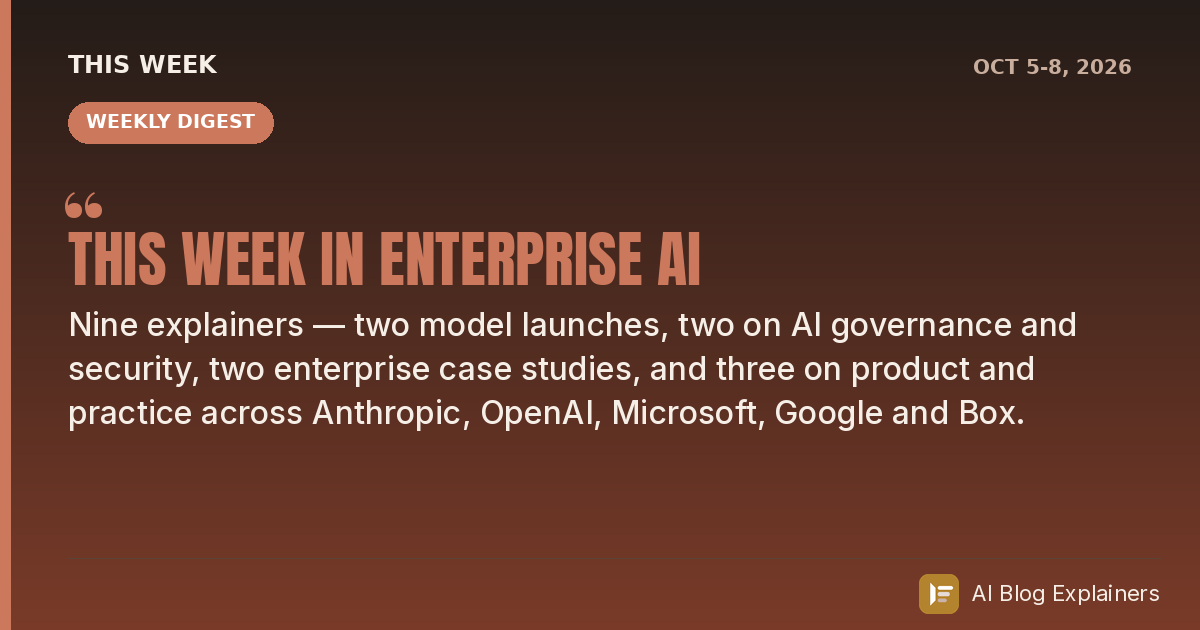
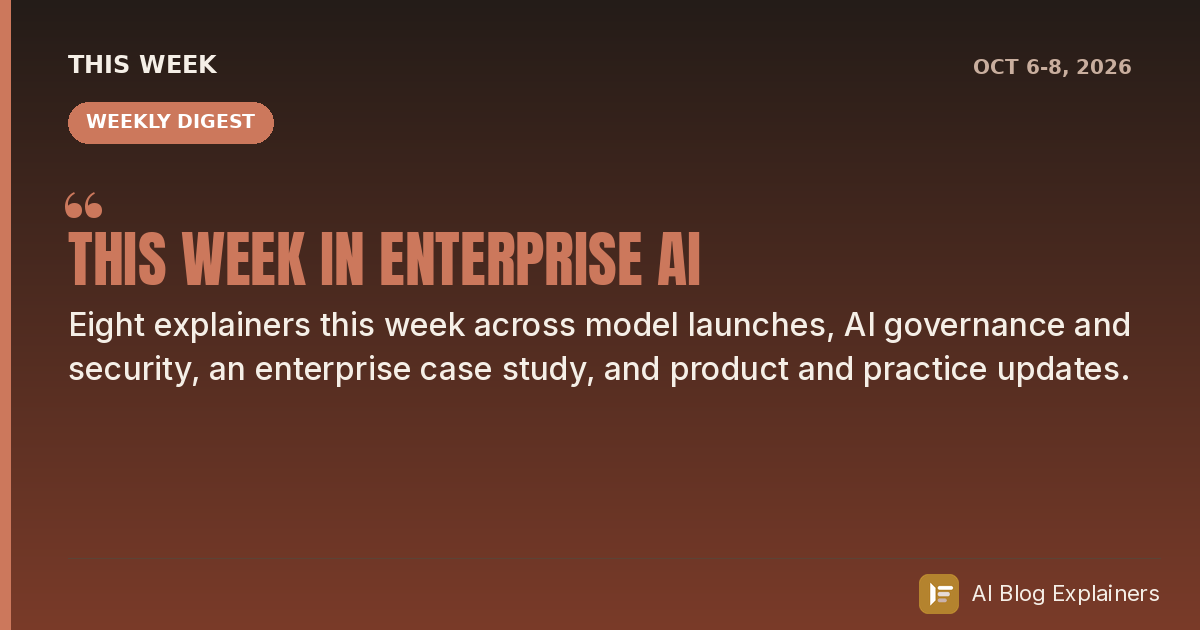
Weekly rollup refresh (Oct 6-8): no new posts today

Changed region(s): [[0.0617, 0.4825, 0.9558, 0.5429], [0.0617, 0.6333, 0.8633, 0.6937], [0.1542, 0.573, 0.9558, 0.6032]]

diff --git a/this-week.html b/this-week.html
@@ -6,7 +6,7 @@
 <link rel="icon" href="favicon.svg" type="image/svg+xml">
 <meta property="og:type" content="website">
 <meta property="og:title" content="This Week in Enterprise AI">
-<meta property="og:description" content="9 explainers from 6 sources this week — the enterprise, agentic-AI, and governance moves worth your attention, grouped by theme.">
+<meta property="og:description" content="8 explainers from 5 sources this week — the enterprise, agentic-AI, and governance moves worth your attention, grouped by theme.">
 <meta property="og:url" content="https://snigdhadasgupta.github.io/ai-blog-explainers/this-week.html">
 <meta property="og:image" content="https://snigdhadasgupta.github.io/ai-blog-explainers/share-cards/this-week.png">
 <meta property="og:image:secure_url" content="https://snigdhadasgupta.github.io/ai-blog-explainers/share-cards/this-week.png">
@@ -70,9 +70,9 @@
     </svg>
   </div>
   <div class="wrap">
-    <span class="tag">This week &middot; Oct 5 – Oct 8, 2026</span>
+    <span class="tag">This week &middot; Oct 6 – Oct 8, 2026</span>
     <h1>This Week in Enterprise AI</h1>
-    <p>9 explainers from 6 sources this week — the enterprise, agentic-AI, and governance moves worth your attention, grouped by theme.</p>
+    <p>8 explainers from 5 sources this week — the enterprise, agentic-AI, and governance moves worth your attention, grouped by theme.</p>
   </div>
 </header>
 <main><div class="wrap">
@@ -110,18 +110,12 @@
       </a></div>
     </div>
     <div class="wk-theme">
-      <div class="wk-eyebrow"><span></span>Enterprise case studies <em>2</em></div>
+      <div class="wk-eyebrow"><span></span>Enterprise case studies <em>1</em></div>
       <div class="wk-grid">
       <a class="wk-card" href="explainers/bolt-uses-box-automate-turn-weeks-compliance-work-minutes.html">
         <div class="wk-top"><span class="wk-badge" style="background:#3D3AAE">Box</span><span class="wk-cat">Case Study</span></div>
         <h3>Bolt Turns Weeks of Compliance Work into Minutes</h3>
         <p>Bolt, the urban-mobility platform operating in 50+ countries with 4,000+ employees and 170,000+ employee documents in Box, faced a compliance backlog that would have taken about two years to audit by hand. It built an HR workflow combining Box Automate (consistent renaming, folder creation and routing), Box Extract (metadata tagging) and Box Apps (a queryable dashboard), pulling documents from both Box and Workday into one content layer. Compliance questions that once took weeks or months — such as how many Belgian employees have a remote-work clause — are now answered in minutes, with staff shifting from manual checks to reviewing AI output.</p>
-        <span class="wk-rt">5 min &middot; Read explainer &rarr;</span>
-      </a>
-      <a class="wk-card" href="explainers/how-cresta-turned-cx-expertise-into-an-agent-builder-on-the-claude-agent-sdk.html">
-        <div class="wk-top"><span class="wk-badge" style="background:#CC785C">Claude</span><span class="wk-cat">Case Study</span></div>
-        <h3>How Cresta Built an Agent Builder on the Claude Agent SDK</h3>
-        <p>Cresta turned years of contact-center expertise into Conductor, a natural-language builder that ships production customer agents on the Claude Agent SDK. It cut first-deployment time by roughly half, and Cresta treats the build as 20% of the job, spending the rest on evaluation and iteration against four task types.</p>
         <span class="wk-rt">5 min &middot; Read explainer &rarr;</span>
       </a></div>
     </div>
